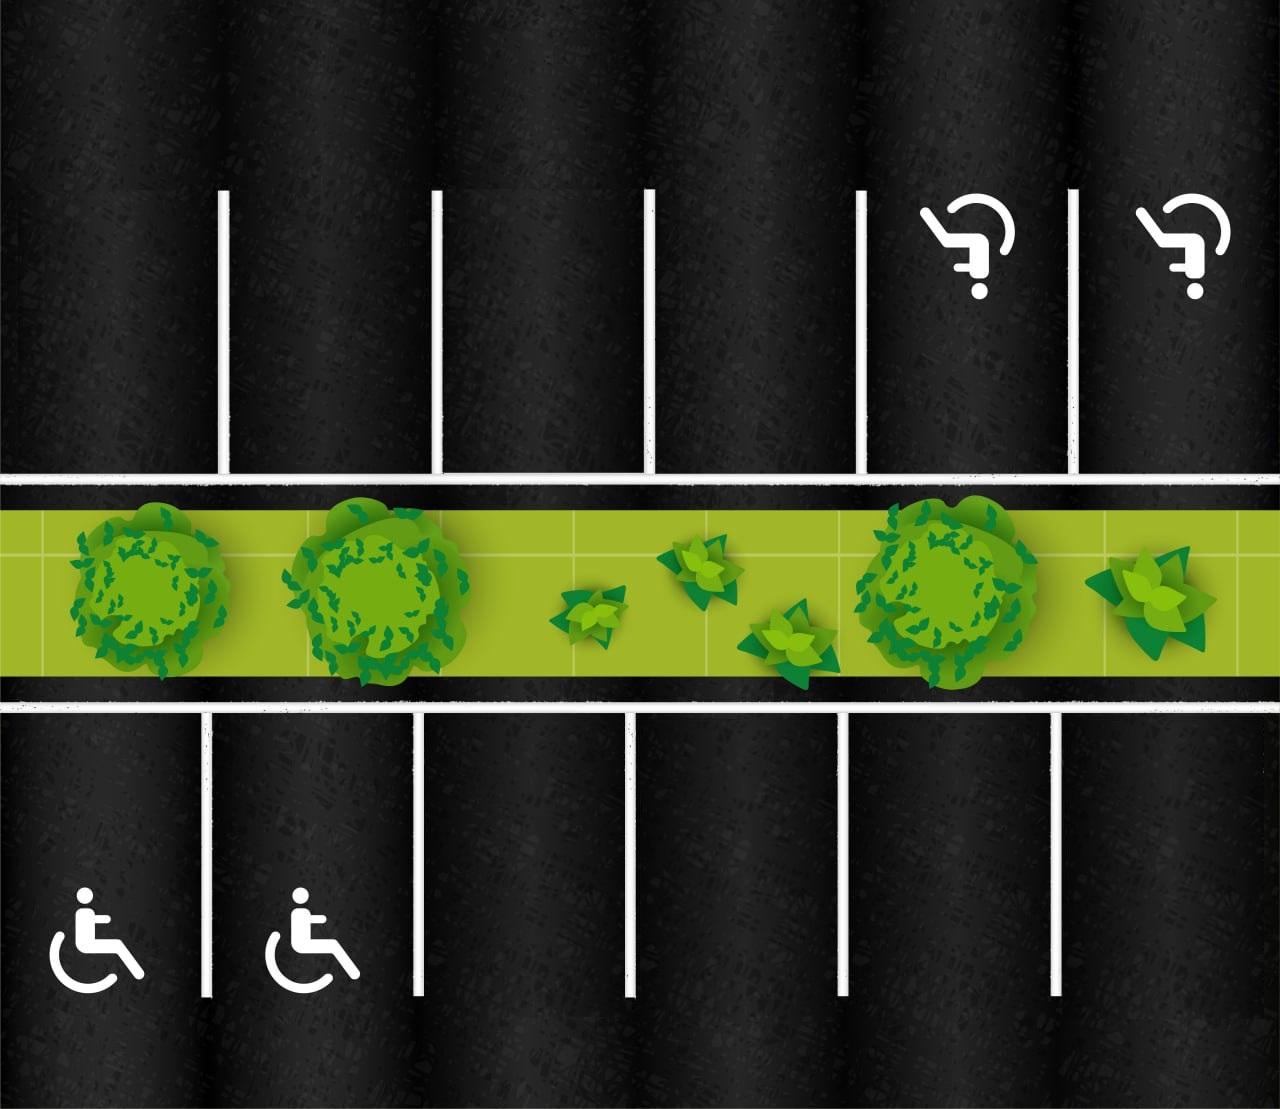
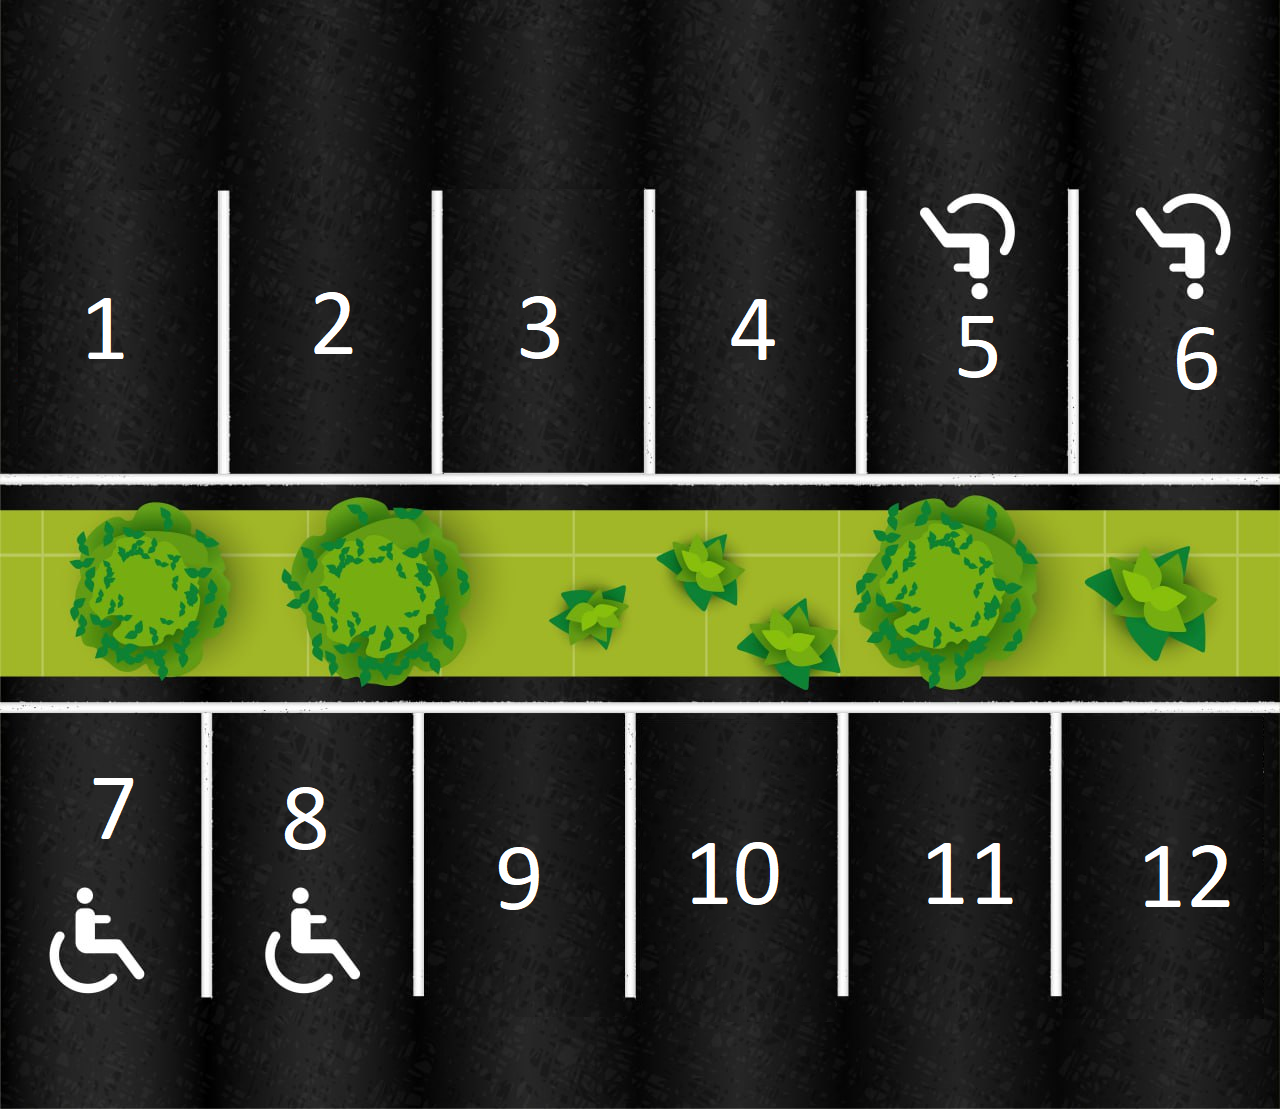
добавил картинку с парковочными местами на главный экран вместо обычных кнопок

diff --git a/booking_app/templates/home.html b/booking_app/templates/home.html
@@ -20,9 +20,9 @@
         ><h2>Мои бронирования</h2></a
       >
     </div>
-    <div class="parking-lot">
+    <div class="parking-lot" style="display: flex; justify-content: center">
       <img
-        src="{% static 'Parking.png' %}"
+        src="{% static 'Parking copy.png' %}"
         alt="Парковка"
         usemap="#parking-map"
         class="parking-image"
@@ -34,7 +34,7 @@
           coords="{{ area.coords }}"
           href="{% url 'book_spot' %}?spot_id={{ area.spot_id }}"
           alt="{{ area.alt }}"
-          class="free"
+          class="{% if area.is_occupied %}occupied{% else %}free{% endif %}"
         />
         {% endfor %}
       </map>

diff --git a/booking_app/static/styles.css b/booking_app/static/styles.css
@@ -71,6 +71,12 @@ body {
   display: inline-block; /* Убедитесь, что элемент отображается */
 }
 
+.parking-image {
+  display: block;
+  margin-left: auto;
+  margin-right: auto;
+}
+
 .parking-lot {
   display: grid;
   grid-template-columns: repeat(6, 1fr);

diff --git a/booking_app/coords.py b/booking_app/coords.py
@@ -1,14 +1,14 @@
 areas = [
-    {'coords': '0,190,220,470', 'spot_id': 1, 'alt': 'Место 1'},
-    {'coords': '230,190,431,470', 'spot_id': 2, 'alt': 'Место 2'},
-    {'coords': '442,190,644,470', 'spot_id': 3, 'alt': 'Место 3'},
-    {'coords': '564,190,855,470', 'spot_id': 4, 'alt': 'Место 4'},
-    {'coords': '866,190,1067,470', 'spot_id': 5, 'alt': 'Место 5'},
-    {'coords': '1079,190,1280,470', 'spot_id': 6, 'alt': 'Место 6'},
-    {'coords': '0,713,202,997', 'spot_id': 7, 'alt': 'Место 7'},
-    {'coords': '212,713,414,997', 'spot_id': 8, 'alt': 'Место 8'},
-    {'coords': '442,713,644,997', 'spot_id': 9, 'alt': 'Место 9'},
-    {'coords': '636,713,838,997', 'spot_id': 10, 'alt': 'Место 10'},
-    {'coords': '850,713,1051,997', 'spot_id': 11, 'alt': 'Место 11'},
-    {'coords': '1062,713,1280,997', 'spot_id': 12, 'alt': 'Место 12'}
+    {'coords': '0,0,218,284', 'spot_id': 1, 'alt': 'Место 1'},
+    {'coords': '230,0,431,284', 'spot_id': 2, 'alt': 'Место 2'},
+    {'coords': '442,0,644,284', 'spot_id': 3, 'alt': 'Место 3'},
+    {'coords': '564,0,855,284', 'spot_id': 4, 'alt': 'Место 4'},
+    {'coords': '866,0,1067,284', 'spot_id': 5, 'alt': 'Место 5'},
+    {'coords': '1079,0,1280,284', 'spot_id': 6, 'alt': 'Место 6'},
+    {'coords': '0,526,202,818', 'spot_id': 7, 'alt': 'Место 7'},
+    {'coords': '212,526,414,818', 'spot_id': 8, 'alt': 'Место 8'},
+    {'coords': '442,526,644,818', 'spot_id': 9, 'alt': 'Место 9'},
+    {'coords': '636,526,838,818', 'spot_id': 10, 'alt': 'Место 10'},
+    {'coords': '850,526,1051,818', 'spot_id': 11, 'alt': 'Место 11'},
+    {'coords': '1062,526,1280,818', 'spot_id': 12, 'alt': 'Место 12'}
 ]
